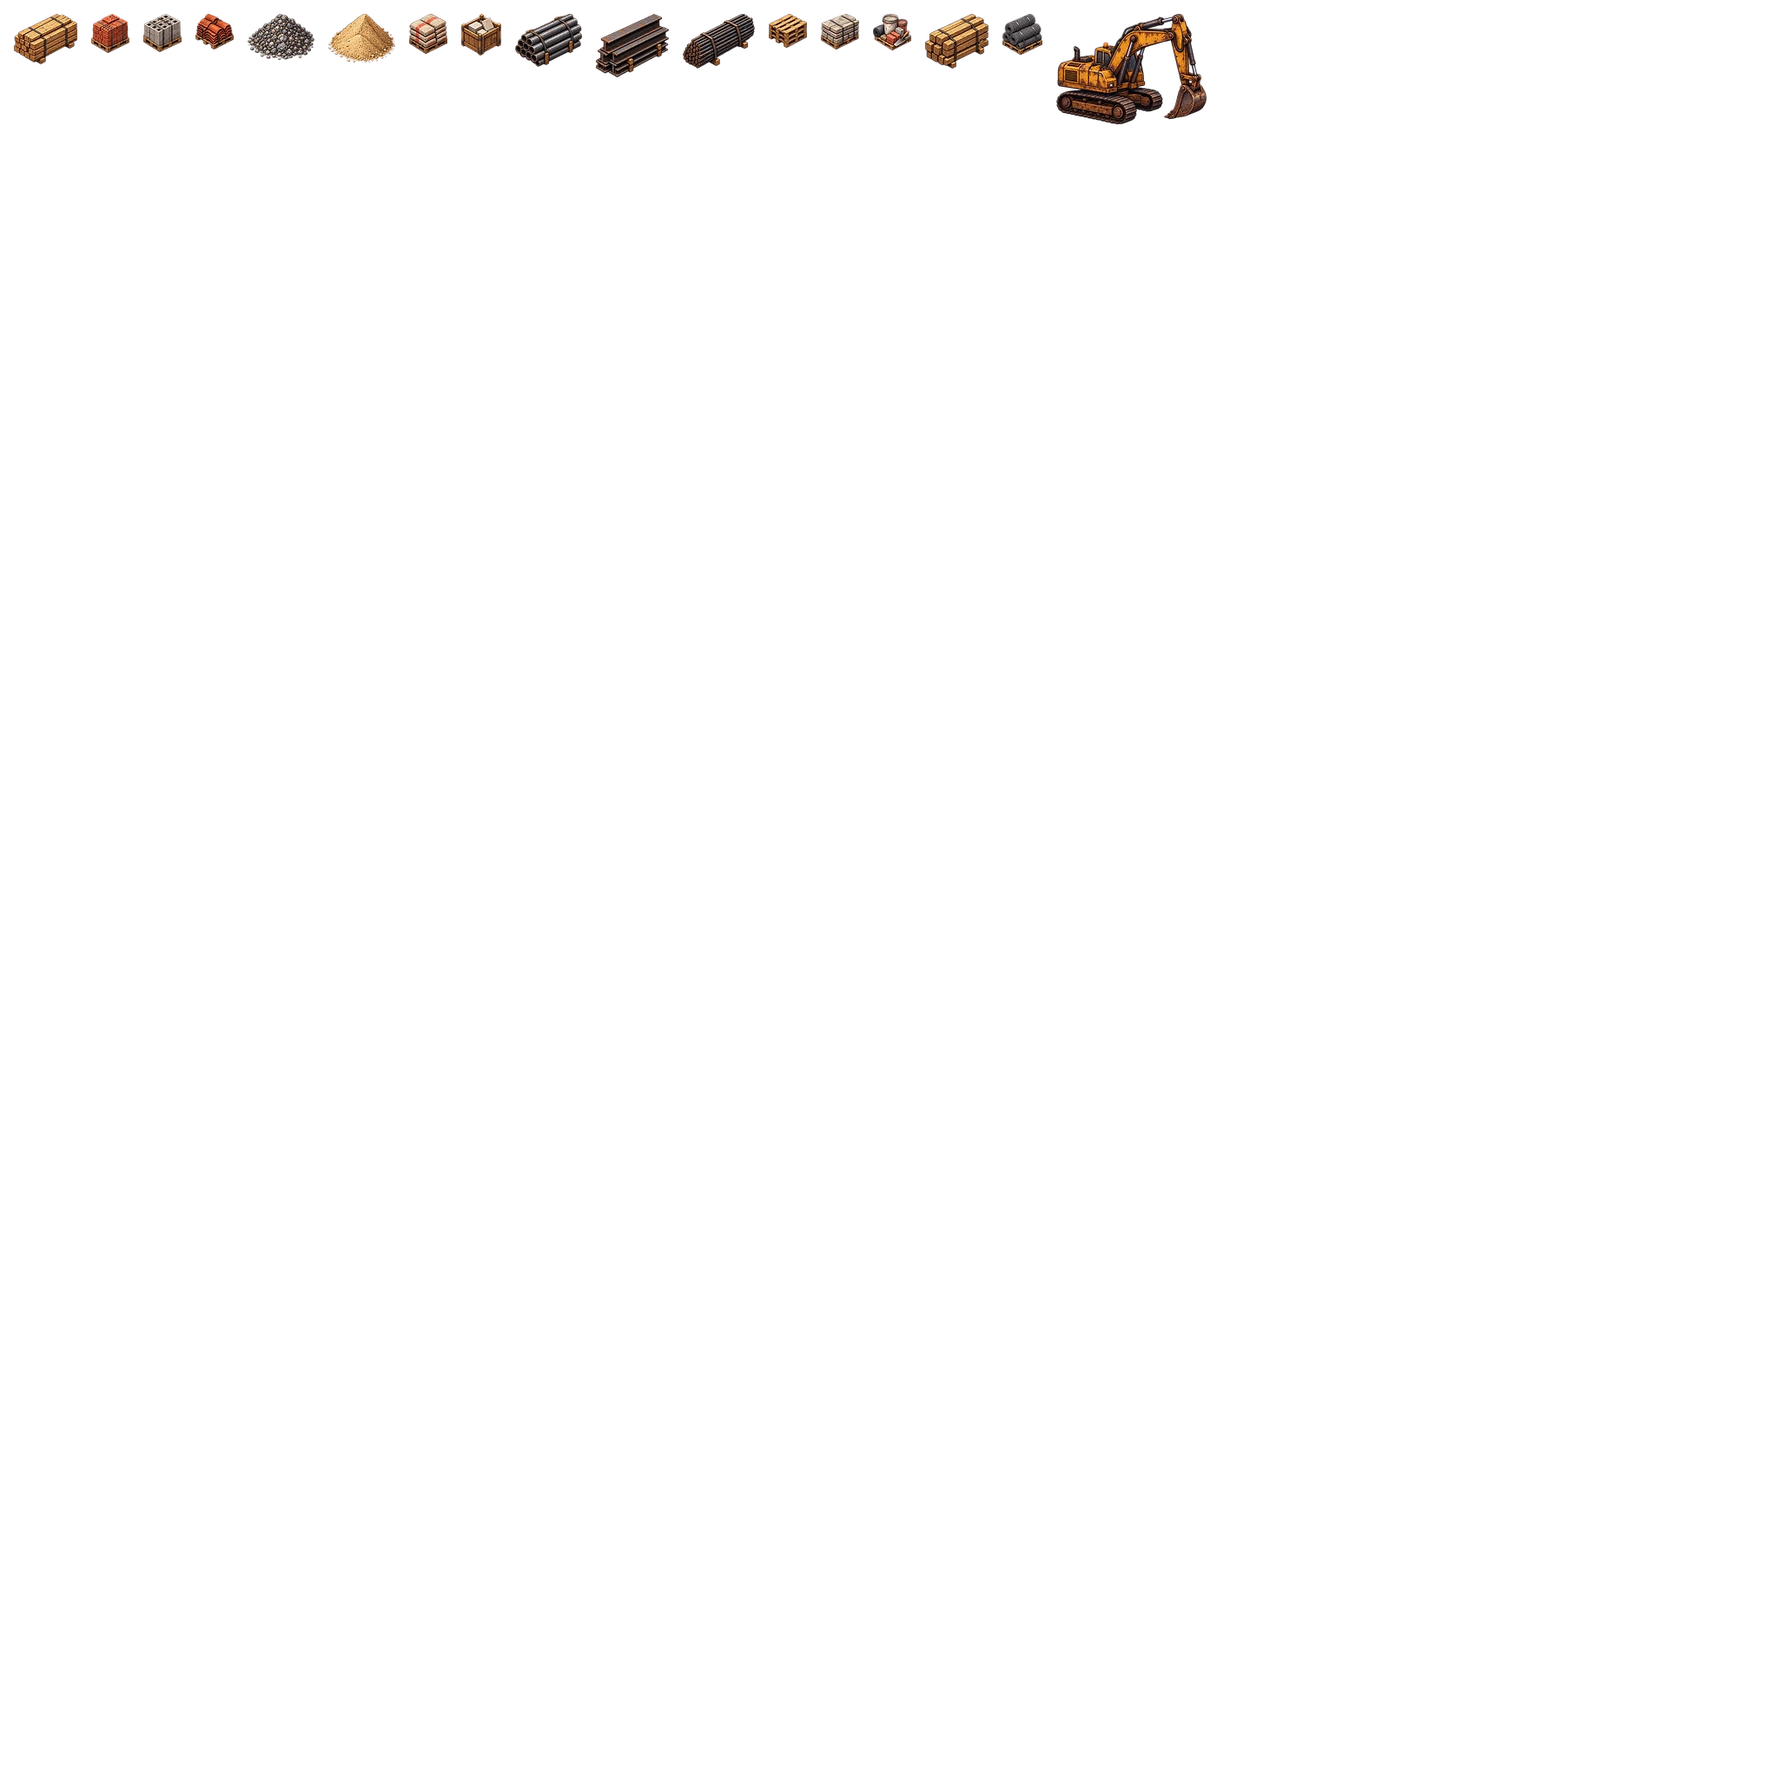
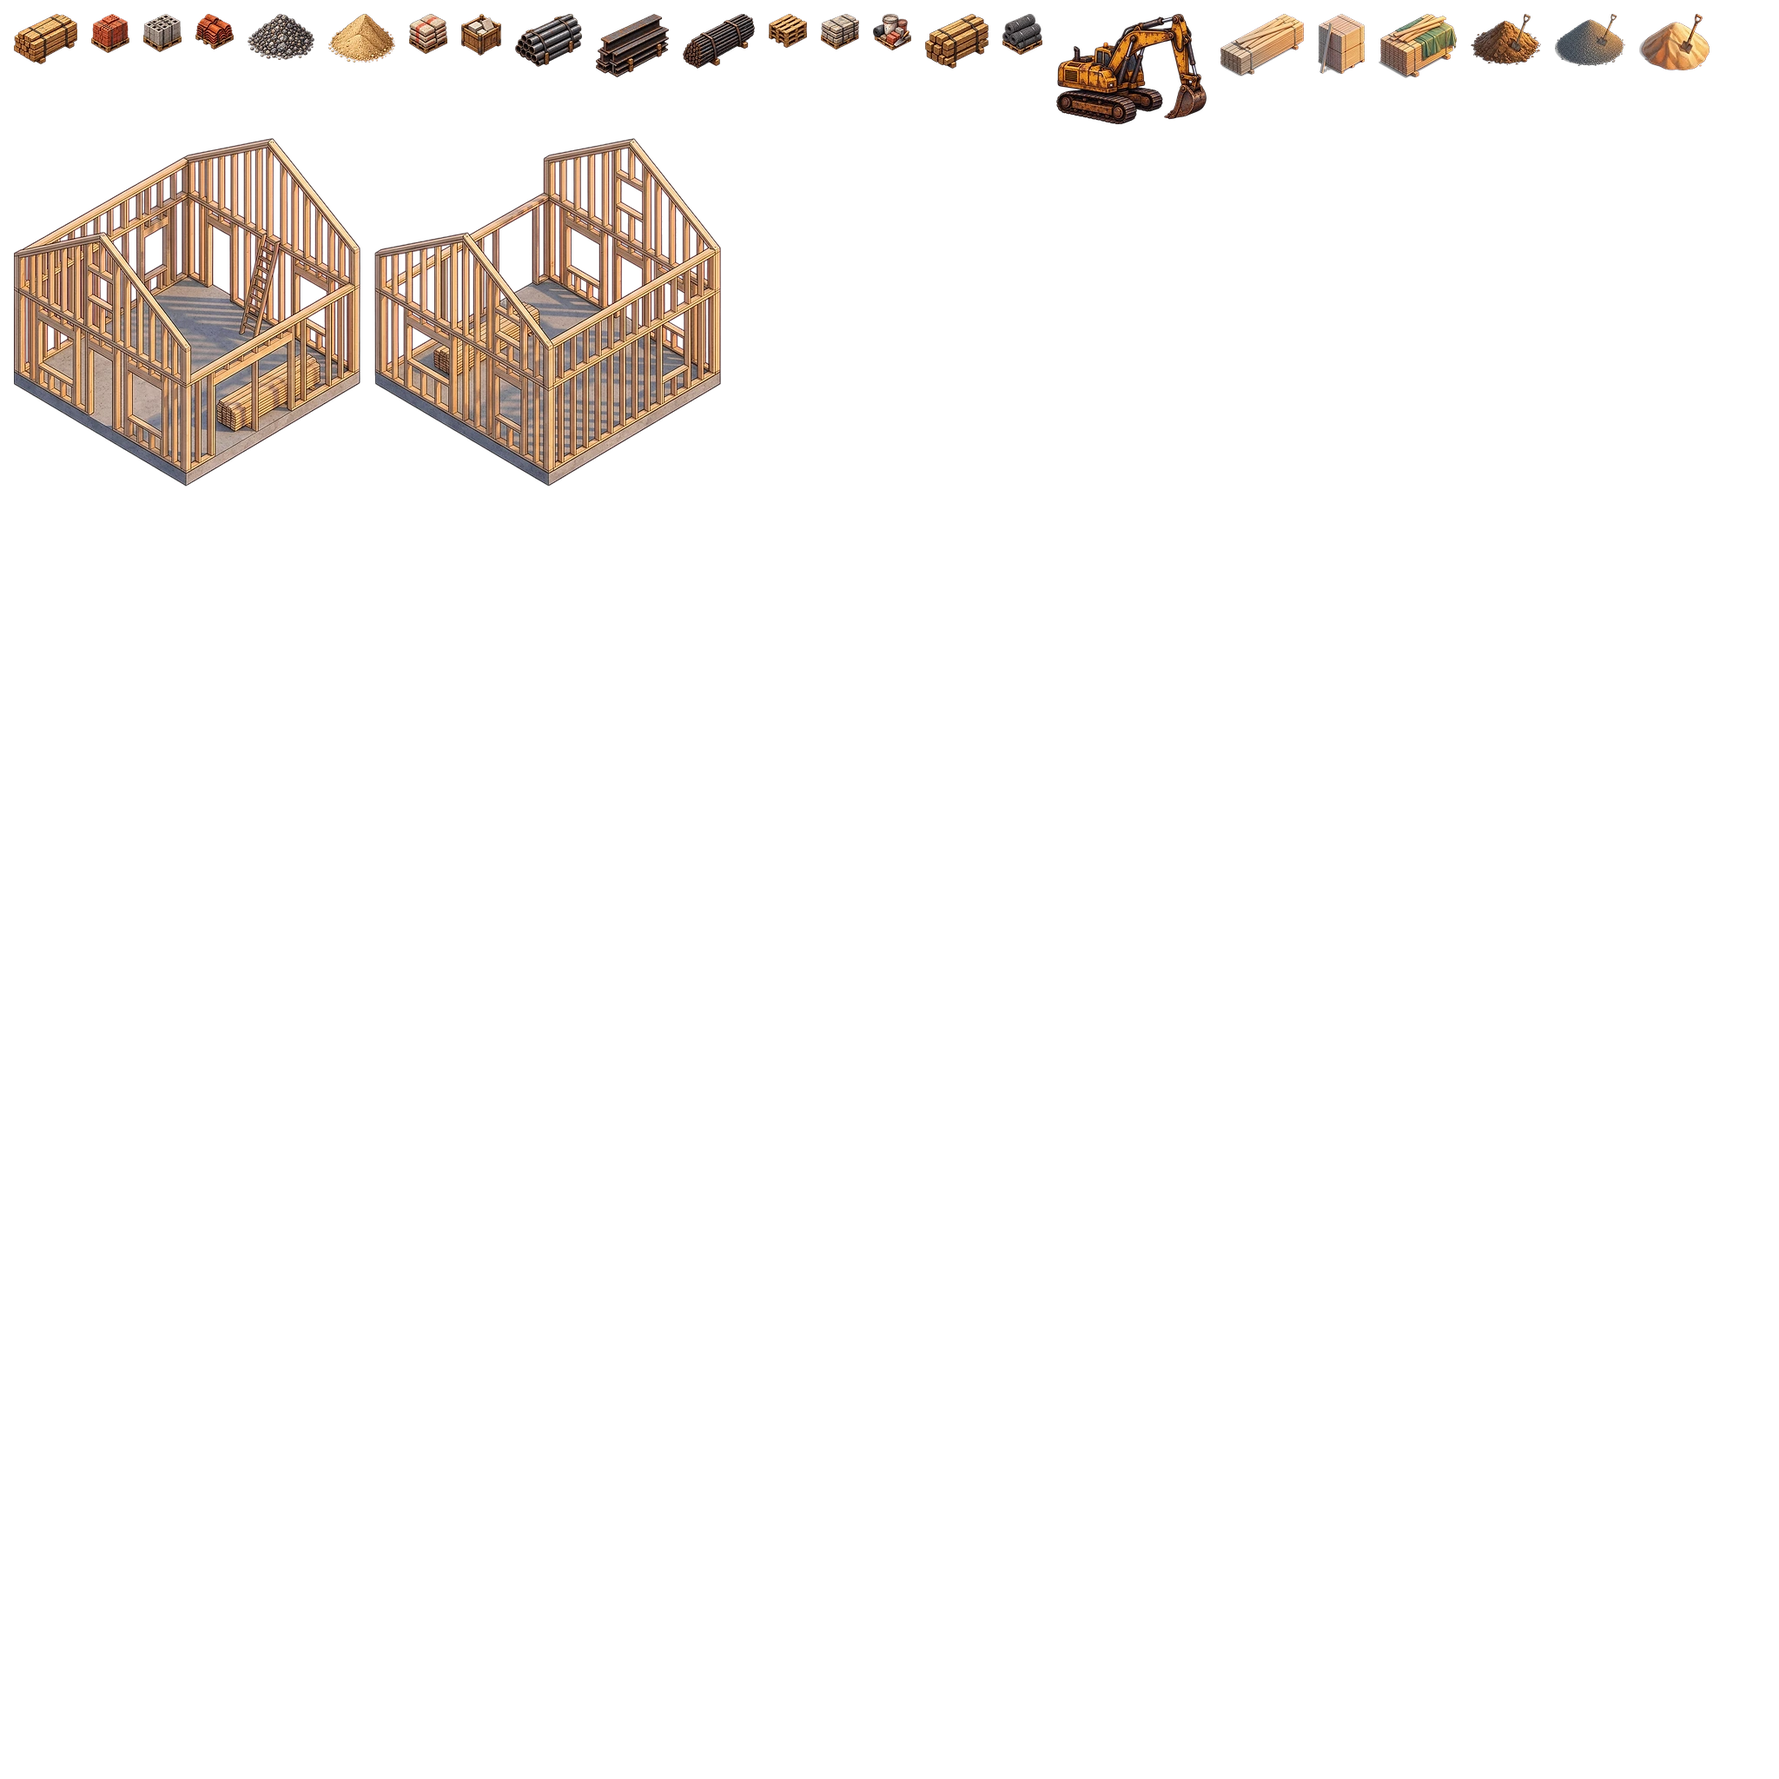
[T232] WIP: the building-site kit into the atlas: prep-site-kit.mjs cuts the keyed lumber stacks (170), heaps (171) and the timber frame's two views (169) into art/construction/site-kit masters sized to their metres; prep-construction.mjs packs them on the construction page after the digger (no page

Changed region(s): [[0.0, 0.0625, 0.4062, 0.2812], [0.6875, 0.0, 0.9688, 0.0625]]

diff --git a/src/game/construction-library.ts b/src/game/construction-library.ts
@@ -7,7 +7,7 @@ import m1 from '../assets/construction/construction-1.webp';
 import m2 from '../assets/construction/construction-2.webp';
 import m3 from '../assets/construction/construction-3.webp';
 import m4 from '../assets/construction/construction-4.webp';
-const ITEMS: LibItem[] = [{"id":"construction:timber-stack","name":"Timber stack","cat":"Construction","kind":"decor","w":121.6,"h":95.97987421383647,"ax":60.8,"ay":65.57987421383646,"boxes":[{"hx":0.5,"hy":1.4,"dx":0,"dy":0}],"solid":2,"big":false,"door":false,"cost":0,"tex":[0,0.0078125,0.0078125,0.04345703125,0.0361328125],"quad":[0,0,121.6,95.97987421383647]},{"id":"construction:brick-pallet","name":"Pallet of bricks","cat":"Construction","kind":"decor","w":73.6,"h":75.16042402826854,"ax":36.8,"ay":56.76042402826854,"boxes":[{"hx":0.6,"hy":0.55,"dx":0,"dy":0}],"solid":2,"big":false,"door":false,"cost":0,"tex":[0,0.05126953125,0.0078125,0.07275390625,0.02978515625],"quad":[0,0,73.6,75.16042402826854]},{"id":"construction:block-pallet","name":"Pallet of cinder blocks","cat":"Construction","kind":"decor","w":73.6,"h":72.83598615916955,"ax":36.8,"ay":54.43598615916955,"boxes":[{"hx":0.6,"hy":0.55,"dx":0,"dy":0}],"solid":2,"big":false,"door":false,"cost":0,"tex":[0,0.08056640625,0.0078125,0.10205078125,0.029296875],"quad":[0,0,73.6,72.83598615916955]},{"id":"construction:roof-tile-pallet","name":"Pallet of roof tiles","cat":"Construction","kind":"decor","w":73.6,"h":68.4169014084507,"ax":36.8,"ay":50.0169014084507,"boxes":[{"hx":0.6,"hy":0.55,"dx":0,"dy":0}],"solid":2,"big":false,"door":false,"cost":0,"tex":[0,0.10986328125,0.0078125,0.13134765625,0.02783203125],"quad":[0,0,73.6,68.4169014084507]},{"id":"construction:gravel-pile","name":"Gravel pile","cat":"Construction","kind":"decor","w":128,"h":88.5233644859813,"ax":64,"ay":56.523364485981304,"boxes":[{"hx":1,"hy":1,"dx":0,"dy":0}],"solid":2,"big":false,"door":false,"cost":0,"tex":[0,0.13916015625,0.0078125,0.1767578125,0.03369140625],"quad":[0,0,128,88.5233644859813]},{"id":"construction:sand-pile","name":"Sand pile","cat":"Construction","kind":"decor","w":128,"h":93.75250836120401,"ax":64,"ay":61.75250836120401,"boxes":[{"hx":1,"hy":1,"dx":0,"dy":0}],"solid":2,"big":false,"door":false,"cost":0,"tex":[0,0.1845703125,0.0078125,0.22216796875,0.03515625],"quad":[0,0,128,93.75250836120401]},{"id":"construction:cement-bag-pallet","name":"Pallet of cement bags","cat":"Construction","kind":"decor","w":73.6,"h":76.19154929577464,"ax":36.8,"ay":57.79154929577464,"boxes":[{"hx":0.6,"hy":0.55,"dx":0,"dy":0}],"solid":2,"big":false,"door":false,"cost":0,"tex":[0,0.22998046875,0.0078125,0.25146484375,0.0302734375],"quad":[0,0,73.6,76.19154929577464]},{"id":"construction:tile-crate","name":"Crate of tiles","cat":"Construction","kind":"decor","w":76.8,"h":80.30315789473683,"ax":38.4,"ay":61.103157894736825,"boxes":[{"hx":0.6,"hy":0.6,"dx":0,"dy":0}],"solid":2,"big":false,"door":false,"cost":0,"tex":[0,0.25927734375,0.0078125,0.28173828125,0.03125],"quad":[0,0,76.8,80.30315789473683]},{"id":"construction:pipe-bundle","name":"Bundle of steel pipes","cat":"Construction","kind":"decor","w":128,"h":102.47619047619048,"ax":64,"ay":70.47619047619048,"boxes":[{"hx":0.5,"hy":1.5,"dx":0,"dy":0}],"solid":2,"big":false,"door":false,"cost":0,"tex":[0,0.28955078125,0.0078125,0.3271484375,0.03759765625],"quad":[0,0,128,102.47619047619048]},{"id":"construction:steel-beams","name":"Stack of steel beams","cat":"Construction","kind":"decor","w":140.8,"h":120.93251533742331,"ax":70.4,"ay":85.73251533742331,"boxes":[{"hx":0.5,"hy":1.7,"dx":0,"dy":0}],"solid":2,"big":false,"door":false,"cost":0,"tex":[0,0.3349609375,0.0078125,0.3759765625,0.04345703125],"quad":[0,0,140.8,120.93251533742331]},{"id":"construction:rebar-bundle","name":"Bundle of rebar","cat":"Construction","kind":"decor","w":137.6,"h":105.37721518987341,"ax":68.8,"ay":70.97721518987342,"boxes":[{"hx":0.45,"hy":1.7,"dx":0,"dy":0}],"solid":2,"big":false,"door":false,"cost":0,"tex":[0,0.3837890625,0.0078125,0.42431640625,0.03857421875],"quad":[0,0,137.6,105.37721518987341]},{"id":"construction:pallet-stack","name":"Stack of empty pallets","cat":"Construction","kind":"decor","w":73.6,"h":65.6,"ax":36.8,"ay":47.199999999999996,"boxes":[{"hx":0.6,"hy":0.55,"dx":0,"dy":0}],"solid":2,"big":false,"door":false,"cost":0,"tex":[0,0.43212890625,0.0078125,0.45361328125,0.02685546875],"quad":[0,0,73.6,65.6]},{"id":"construction:stone-pallet","name":"Pallet of stone blocks","cat":"Construction","kind":"decor","w":73.6,"h":67.5672131147541,"ax":36.8,"ay":49.1672131147541,"boxes":[{"hx":0.6,"hy":0.55,"dx":0,"dy":0}],"solid":2,"big":false,"door":false,"cost":0,"tex":[0,0.46142578125,0.0078125,0.48291015625,0.02783203125],"quad":[0,0,73.6,67.5672131147541]},{"id":"construction:mortar-tools","name":"Mortar bucket and tools","cat":"Construction","kind":"decor","w":73.6,"h":70.0952380952381,"ax":36.8,"ay":51.6952380952381,"boxes":[{"hx":0.6,"hy":0.55,"dx":0,"dy":0}],"solid":2,"big":false,"door":false,"cost":0,"tex":[0,0.49072265625,0.0078125,0.51220703125,0.0283203125],"quad":[0,0,73.6,70.0952380952381]},{"id":"construction:lumber-stack","name":"Lumber stack","cat":"Construction","kind":"decor","w":121.6,"h":104.85508196721311,"ax":60.8,"ay":74.45508196721312,"boxes":[{"hx":0.5,"hy":1.4,"dx":0,"dy":0}],"solid":2,"big":false,"door":false,"cost":0,"tex":[0,0.52001953125,0.0078125,0.5556640625,0.03857421875],"quad":[0,0,121.6,104.85508196721311]},{"id":"construction:mesh-rolls","name":"Rolls of wire mesh","cat":"Construction","kind":"decor","w":76.8,"h":78.89692832764504,"ax":38.4,"ay":59.69692832764504,"boxes":[{"hx":0.6,"hy":0.6,"dx":0,"dy":0}],"solid":2,"big":false,"door":false,"cost":0,"tex":[0,0.5634765625,0.0078125,0.5859375,0.03076171875],"quad":[0,0,76.8,78.89692832764504]},{"id":"construction:digger","name":"Digger (excavator)","cat":"Construction","kind":"decor","w":288,"h":212.0394922425952,"ax":144,"ay":140.0394922425952,"boxes":[{"hx":3,"hy":1.5,"dx":0,"dy":0}],"solid":2,"big":true,"door":false,"cost":0,"tex":[0,0.59375,0.0078125,0.67822265625,0.06982421875],"quad":[0,0,288,212.0394922425952]}];
+const ITEMS: LibItem[] = [{"id":"construction:timber-stack","name":"Timber stack","cat":"Construction","kind":"decor","w":121.6,"h":95.97987421383647,"ax":60.8,"ay":65.57987421383646,"boxes":[{"hx":0.5,"hy":1.4,"dx":0,"dy":0}],"solid":2,"big":false,"door":false,"cost":0,"tex":[0,0.0078125,0.0078125,0.04345703125,0.0361328125],"quad":[0,0,121.6,95.97987421383647]},{"id":"construction:brick-pallet","name":"Pallet of bricks","cat":"Construction","kind":"decor","w":73.6,"h":75.16042402826854,"ax":36.8,"ay":56.76042402826854,"boxes":[{"hx":0.6,"hy":0.55,"dx":0,"dy":0}],"solid":2,"big":false,"door":false,"cost":0,"tex":[0,0.05126953125,0.0078125,0.07275390625,0.02978515625],"quad":[0,0,73.6,75.16042402826854]},{"id":"construction:block-pallet","name":"Pallet of cinder blocks","cat":"Construction","kind":"decor","w":73.6,"h":72.83598615916955,"ax":36.8,"ay":54.43598615916955,"boxes":[{"hx":0.6,"hy":0.55,"dx":0,"dy":0}],"solid":2,"big":false,"door":false,"cost":0,"tex":[0,0.08056640625,0.0078125,0.10205078125,0.029296875],"quad":[0,0,73.6,72.83598615916955]},{"id":"construction:roof-tile-pallet","name":"Pallet of roof tiles","cat":"Construction","kind":"decor","w":73.6,"h":68.4169014084507,"ax":36.8,"ay":50.0169014084507,"boxes":[{"hx":0.6,"hy":0.55,"dx":0,"dy":0}],"solid":2,"big":false,"door":false,"cost":0,"tex":[0,0.10986328125,0.0078125,0.13134765625,0.02783203125],"quad":[0,0,73.6,68.4169014084507]},{"id":"construction:gravel-pile","name":"Gravel pile","cat":"Construction","kind":"decor","w":128,"h":88.5233644859813,"ax":64,"ay":56.523364485981304,"boxes":[{"hx":1,"hy":1,"dx":0,"dy":0}],"solid":2,"big":false,"door":false,"cost":0,"tex":[0,0.13916015625,0.0078125,0.1767578125,0.03369140625],"quad":[0,0,128,88.5233644859813]},{"id":"construction:sand-pile","name":"Sand pile","cat":"Construction","kind":"decor","w":128,"h":93.75250836120401,"ax":64,"ay":61.75250836120401,"boxes":[{"hx":1,"hy":1,"dx":0,"dy":0}],"solid":2,"big":false,"door":false,"cost":0,"tex":[0,0.1845703125,0.0078125,0.22216796875,0.03515625],"quad":[0,0,128,93.75250836120401]},{"id":"construction:cement-bag-pallet","name":"Pallet of cement bags","cat":"Construction","kind":"decor","w":73.6,"h":76.19154929577464,"ax":36.8,"ay":57.79154929577464,"boxes":[{"hx":0.6,"hy":0.55,"dx":0,"dy":0}],"solid":2,"big":false,"door":false,"cost":0,"tex":[0,0.22998046875,0.0078125,0.25146484375,0.0302734375],"quad":[0,0,73.6,76.19154929577464]},{"id":"construction:tile-crate","name":"Crate of tiles","cat":"Construction","kind":"decor","w":76.8,"h":80.30315789473683,"ax":38.4,"ay":61.103157894736825,"boxes":[{"hx":0.6,"hy":0.6,"dx":0,"dy":0}],"solid":2,"big":false,"door":false,"cost":0,"tex":[0,0.25927734375,0.0078125,0.28173828125,0.03125],"quad":[0,0,76.8,80.30315789473683]},{"id":"construction:pipe-bundle","name":"Bundle of steel pipes","cat":"Construction","kind":"decor","w":128,"h":102.47619047619048,"ax":64,"ay":70.47619047619048,"boxes":[{"hx":0.5,"hy":1.5,"dx":0,"dy":0}],"solid":2,"big":false,"door":false,"cost":0,"tex":[0,0.28955078125,0.0078125,0.3271484375,0.03759765625],"quad":[0,0,128,102.47619047619048]},{"id":"construction:steel-beams","name":"Stack of steel beams","cat":"Construction","kind":"decor","w":140.8,"h":120.93251533742331,"ax":70.4,"ay":85.73251533742331,"boxes":[{"hx":0.5,"hy":1.7,"dx":0,"dy":0}],"solid":2,"big":false,"door":false,"cost":0,"tex":[0,0.3349609375,0.0078125,0.3759765625,0.04345703125],"quad":[0,0,140.8,120.93251533742331]},{"id":"construction:rebar-bundle","name":"Bundle of rebar","cat":"Construction","kind":"decor","w":137.6,"h":105.37721518987341,"ax":68.8,"ay":70.97721518987342,"boxes":[{"hx":0.45,"hy":1.7,"dx":0,"dy":0}],"solid":2,"big":false,"door":false,"cost":0,"tex":[0,0.3837890625,0.0078125,0.42431640625,0.03857421875],"quad":[0,0,137.6,105.37721518987341]},{"id":"construction:pallet-stack","name":"Stack of empty pallets","cat":"Construction","kind":"decor","w":73.6,"h":65.6,"ax":36.8,"ay":47.199999999999996,"boxes":[{"hx":0.6,"hy":0.55,"dx":0,"dy":0}],"solid":2,"big":false,"door":false,"cost":0,"tex":[0,0.43212890625,0.0078125,0.45361328125,0.02685546875],"quad":[0,0,73.6,65.6]},{"id":"construction:stone-pallet","name":"Pallet of stone blocks","cat":"Construction","kind":"decor","w":73.6,"h":67.5672131147541,"ax":36.8,"ay":49.1672131147541,"boxes":[{"hx":0.6,"hy":0.55,"dx":0,"dy":0}],"solid":2,"big":false,"door":false,"cost":0,"tex":[0,0.46142578125,0.0078125,0.48291015625,0.02783203125],"quad":[0,0,73.6,67.5672131147541]},{"id":"construction:mortar-tools","name":"Mortar bucket and tools","cat":"Construction","kind":"decor","w":73.6,"h":70.0952380952381,"ax":36.8,"ay":51.6952380952381,"boxes":[{"hx":0.6,"hy":0.55,"dx":0,"dy":0}],"solid":2,"big":false,"door":false,"cost":0,"tex":[0,0.49072265625,0.0078125,0.51220703125,0.0283203125],"quad":[0,0,73.6,70.0952380952381]},{"id":"construction:lumber-stack","name":"Lumber stack","cat":"Construction","kind":"decor","w":121.6,"h":104.85508196721311,"ax":60.8,"ay":74.45508196721312,"boxes":[{"hx":0.5,"hy":1.4,"dx":0,"dy":0}],"solid":2,"big":false,"door":false,"cost":0,"tex":[0,0.52001953125,0.0078125,0.5556640625,0.03857421875],"quad":[0,0,121.6,104.85508196721311]},{"id":"construction:mesh-rolls","name":"Rolls of wire mesh","cat":"Construction","kind":"decor","w":76.8,"h":78.89692832764504,"ax":38.4,"ay":59.69692832764504,"boxes":[{"hx":0.6,"hy":0.6,"dx":0,"dy":0}],"solid":2,"big":false,"door":false,"cost":0,"tex":[0,0.5634765625,0.0078125,0.5859375,0.03076171875],"quad":[0,0,76.8,78.89692832764504]},{"id":"construction:digger","name":"Digger (excavator)","cat":"Construction","kind":"decor","w":288,"h":212.0394922425952,"ax":144,"ay":140.0394922425952,"boxes":[{"hx":3,"hy":1.5,"dx":0,"dy":0}],"solid":2,"big":true,"door":false,"cost":0,"tex":[0,0.59375,0.0078125,0.67822265625,0.06982421875],"quad":[0,0,288,212.0394922425952]},{"id":"construction:site-lumber-a","name":"Lumber stack (long)","cat":"Construction","kind":"decor","w":160,"h":120.159,"ax":80,"ay":72.265,"boxes":[{"hx":0.9,"hy":1.6,"dx":0,"dy":0}],"solid":2,"big":false,"door":false,"cost":0,"tex":[0,0.68603515625,0.0078125,0.73291015625,0.04296875],"quad":[0,0,160,120.159]},{"id":"construction:site-lumber-b","name":"Lumber stack (tall, a plank leaning)","cat":"Construction","kind":"decor","w":89.6,"h":114.457,"ax":44.8,"ay":102.317,"boxes":[{"hx":0.8,"hy":0.6,"dx":0,"dy":0}],"solid":2,"big":false,"door":false,"cost":0,"tex":[0,0.74072265625,0.0078125,0.76708984375,0.04150390625],"quad":[0,0,89.6,114.457]},{"id":"construction:site-lumber-c","name":"Lumber stack (under a tarp)","cat":"Construction","kind":"decor","w":150.4,"h":123.499,"ax":75.2,"ay":87.515,"boxes":[{"hx":0.7,"hy":1.65,"dx":0,"dy":0}],"solid":2,"big":false,"door":false,"cost":0,"tex":[0,0.77490234375,0.0078125,0.81884765625,0.0439453125],"quad":[0,0,150.4,123.499]},{"id":"construction:site-heap-earth","name":"Heap of earth","cat":"Construction","kind":"decor","w":135.765,"h":98.865,"ax":67.882,"ay":78.936,"boxes":[{"hx":1.2,"hy":1.2,"dx":0,"dy":0}],"solid":2,"big":false,"door":false,"cost":0,"tex":[0,0.82666015625,0.0078125,0.8662109375,0.03662109375],"quad":[0,0,135.765,98.865]},{"id":"construction:site-heap-gravel","name":"Heap of gravel","cat":"Construction","kind":"decor","w":135.765,"h":100.071,"ax":67.882,"ay":79.943,"boxes":[{"hx":1.2,"hy":1.2,"dx":0,"dy":0}],"solid":2,"big":false,"door":false,"cost":0,"tex":[0,0.8740234375,0.0078125,0.91357421875,0.037109375],"quad":[0,0,135.765,100.071]},{"id":"construction:site-heap-sand","name":"Heap of sand","cat":"Construction","kind":"decor","w":135.765,"h":108.52,"ax":67.882,"ay":89.647,"boxes":[{"hx":1.2,"hy":1.2,"dx":0,"dy":0}],"solid":2,"big":false,"door":false,"cost":0,"tex":[0,0.92138671875,0.0078125,0.9609375,0.03955078125],"quad":[0,0,135.765,108.52]},{"id":"construction:timber-frame-1","name":"Timber frame going up (view 1)","cat":"Construction","kind":"decor","w":665.6,"h":667.779,"ax":332.8,"ay":470.604,"boxes":[{"hx":5.2,"hy":5.2,"dx":0,"dy":0}],"solid":2,"big":true,"door":false,"cost":0,"tex":[0,0.0078125,0.07763671875,0.20263671875,0.2734375],"quad":[0,0,665.6,667.779]},{"id":"construction:timber-frame-2","name":"Timber frame going up (view 2)","cat":"Construction","kind":"decor","w":665.6,"h":668.868,"ax":332.8,"ay":471.694,"boxes":[{"hx":5.2,"hy":5.2,"dx":0,"dy":0}],"solid":2,"big":true,"door":false,"cost":0,"tex":[0,0.21044921875,0.07763671875,0.4052734375,0.2734375],"quad":[0,0,665.6,668.868]}];
 /** Append after the business art, preserving every existing saved item index. */
 export function appendConstruction(library: LibItem[], pages: string[][]) {
   const page = pages.length; pages.push([m0, m1, m2, m3, m4]);
